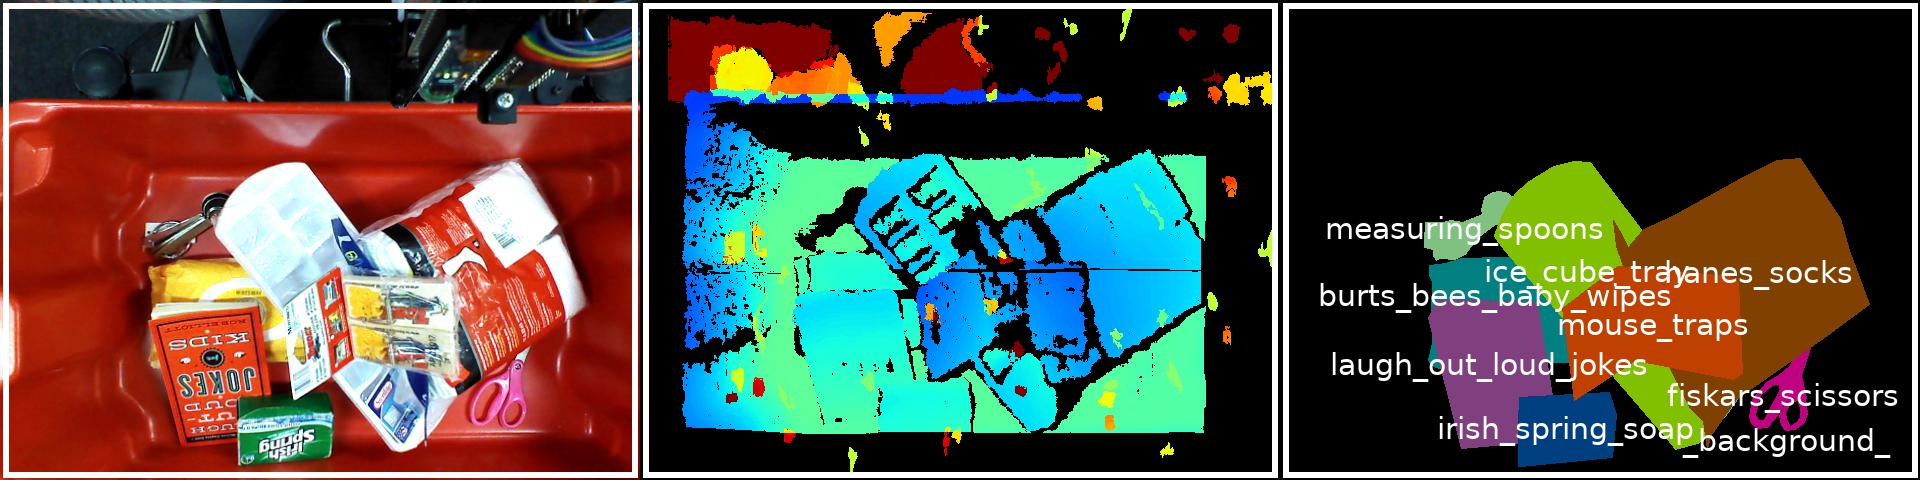
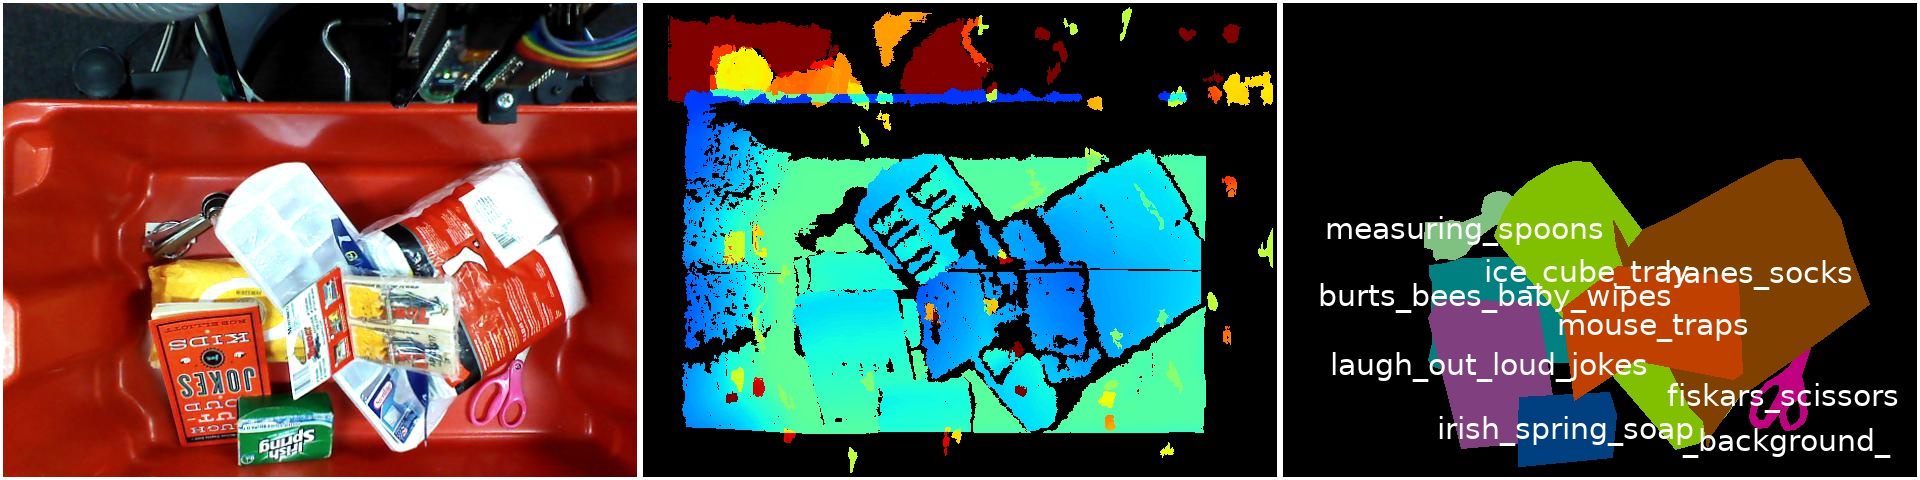
Update tile border

Changed region(s): [[0.0, 0.0, 1.0, 1.0]]

diff --git a/imgviz/tile.py b/imgviz/tile.py
@@ -86,10 +86,10 @@ def tile(
         if border[i] is not None:
             img = rectangle(
                 src=img,
-                aabb1=(3, 3),
-                aabb2=(img.shape[0] - 3, img.shape[1] - 3),
+                aabb1=(0, 0),
+                aabb2=(img.shape[0] - 1, img.shape[1] - 1),
                 color=border[i],
-                width=6,
+                width=3,
             )
         imgs[i] = img
 
